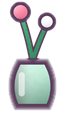
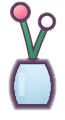
Keep floor pieces, the night window, bud-vase glass, and the back door visible
Floor items draw 12px above the stage border without changing saved positions.
The bedroom night plate is clipped to the arch. Bud-vase glass is tinted to the
same clear blue as the other glossy glass. The living-room door sits in the
item layer, above a sofa or rug, and still opens the yard.

Lifting the floor fully shows the nursery rattle and baby bottle, so only their
faintest antialiased edge pixels are cleared. That keeps the in-game art boxes
within the existing tolerance. A new guard checks the clamp and the door at all
seven review sizes.

Changed region(s): [[0.2154, 0.525, 0.8, 0.875]]

diff --git a/src/main.ts b/src/main.ts
@@ -58,6 +58,10 @@ let VIEW_W = 1000; // visible window; narrower in portrait so the room can fill 
 const maxCam = () => Math.max(0, W - VIEW_W);
 const WALL_BOTTOM = 375; // wall items (manifest `wall: true`) snap so they sit on the wall
 const snapY = (def: ItemDef, y: number) => def.wall ? Math.min(y, WALL_BOTTOM) : y;
+// The stage is a 600px border-box with a 6px border, so the bottom 12px of the world is clipped.
+// Floor pieces draw 12px higher. The stored y is left alone, so old saves stay valid.
+const FLOOR_DRAW = 12;
+const drawY = (def: ItemDef, y: number) => def.wall ? y : Math.min(y, H - FLOOR_DRAW);
 const CHAR_W = 120, CHAR_H = 192;
 const ROOMS: { id: RoomId; name: string; color: string }[] = [
   { id: 'living', name: 'Living Room', color: '#ff8fab' },
@@ -650,7 +654,10 @@ function renderRoomBg(s: GameState) {
 }
 function renderMinimap(s: GameState) {
   const room = s.rooms[s.currentRoom];
-  const dots = room.items.filter(i => ITEM_MAP[i.kind]).map(i => `<i style="left:${i.x / W * 100}%;top:${(i.y - hOf(ITEM_MAP[i.kind]) * i.scale / 2) / H * 100}%"></i>`).join('');
+  const dots = room.items.filter(i => ITEM_MAP[i.kind]).map(i => {
+    const def = ITEM_MAP[i.kind];
+    return `<i style="left:${i.x / W * 100}%;top:${(drawY(def, i.y) - hOf(def) * i.scale / 2) / H * 100}%"></i>`;
+  }).join('');
   const me = s.characters.filter(c => c.room === s.currentRoom).map(c => `<b style="left:${c.x / W * 100}%;top:${(c.y - 90) / H * 100}%;background:${c.shirt}"></b>`).join('');
   $('mmDots').innerHTML = dots + me;
 }
@@ -700,7 +707,7 @@ function renderItems(s: GameState) {
     el.dataset.kind = it.kind;
     el.classList.toggle('is-light', isLightKind(it.kind, !!def.light));
     const box = placedBox(def, it.scale);
-    placeEl(el, it.x, it.y, box.w, box.h);
+    placeEl(el, it.x, drawY(def, it.y), box.w, box.h);
     const iz = 1000 + it.z;
     el.style.zIndex = String(iz);
     el.style.setProperty('--iz', String(iz));
@@ -780,20 +787,33 @@ stage.addEventListener('pointerdown', e => {
   window.addEventListener('pointercancel', end, true);
 }, true);
 
-/** Indoor dressing, and the outdoor paint plus the back door when she is home. */
+/** Furniture can stack without limit. The door stays above every piece and under a kid, unless a piece was brought even further forward. */
+function liftDoorOverFurniture(door: HTMLElement) {
+  let maxZ = 0;
+  layer.querySelectorAll<HTMLElement>('.item').forEach(el => {
+    const z = parseInt(el.style.zIndex || '0', 10) || 0;
+    const light = el.classList.contains('is-light') ? 1 : 0;
+    if (z + light > maxZ) maxZ = z + light;
+  });
+  door.style.zIndex = String(Math.max(4900, maxZ + 2));
+}
+/** Indoor dressing, and the outdoor paint plus the back door when she is home.
+    The door lives in the item layer (scenery is a lower stacking context) so a sofa or rug cannot cover it. */
 function paintScenery(s: GameState) {
   const room = s.rooms[s.currentRoom];
   syncScenery($('scenery'), s.currentRoom, room.items);
-  const root = $('scenery');
+  $('scenery').querySelectorAll('.yardDoor').forEach(n => n.remove());
   const go = s.currentRoom === 'living' ? 'backyard' : s.currentRoom === 'backyard' ? 'living' : '';
-  const have = root.querySelector<HTMLElement>('.yardDoor');
-  if (!go) root.querySelectorAll('.yardDoor').forEach(n => n.remove());
+  const have = layer.querySelector<HTMLElement>('.yardDoor');
+  if (!go) layer.querySelectorAll('.yardDoor').forEach(n => n.remove());
   else if (!have || have.dataset.yardGo !== go) {
-    root.querySelectorAll('.yardDoor').forEach(n => n.remove());
-    root.insertAdjacentHTML('beforeend', yardDoorMarkup(go === 'backyard' ? 'living' : 'yard'));
-    const door = root.querySelector<HTMLElement>('.yardDoor');
+    layer.querySelectorAll('.yardDoor').forEach(n => n.remove());
+    layer.insertAdjacentHTML('beforeend', yardDoorMarkup(go === 'backyard' ? 'living' : 'yard'));
+    const door = layer.querySelector<HTMLElement>('.yardDoor');
     if (door) bindYardDoor(door);
   }
+  const door = layer.querySelector<HTMLElement>('.yardDoor');
+  if (door) liftDoorOverFurniture(door);
   stage.classList.toggle('room-yard', s.currentRoom === 'backyard');
   syncSwingPose();
   if (!doorPress) placeYardHints();

diff --git a/src/sky.css b/src/sky.css
@@ -261,7 +261,10 @@ html.sky-live .winGlass { transition: fill 1.4s linear; }
   height: 74%;
   z-index: 2;
   pointer-events: none;
-  border-radius: 6%;
+  /* The painting is an arch. A rectangle (even a slightly rounded one) leaves square
+     corners of night sky on the wood and the curtains. Percentages are of this plate. */
+  -webkit-clip-path: polygon(42.3% 10.3%, 31.8% 11.8%, 30.2% 16.2%, 28.2% 22.3%, 25.2% 28.2%, 22% 34.3%, 15.5% 43.2%, 10.7% 49.3%, 5% 55.3%, 0.7% 60.1%, 0.7% 85.8%, 98.9% 85.8%, 98.9% 60.1%, 95% 55.3%, 88.8% 49.3%, 84.1% 43.2%, 77.9% 34.3%, 74.5% 28.2%, 71.4% 22.3%, 69.1% 16.2%, 67.9% 11.8%, 58.2% 10.3%);
+  clip-path: polygon(42.3% 10.3%, 31.8% 11.8%, 30.2% 16.2%, 28.2% 22.3%, 25.2% 28.2%, 22% 34.3%, 15.5% 43.2%, 10.7% 49.3%, 5% 55.3%, 0.7% 60.1%, 0.7% 85.8%, 98.9% 85.8%, 98.9% 60.1%, 95% 55.3%, 88.8% 49.3%, 84.1% 43.2%, 77.9% 34.3%, 74.5% 28.2%, 71.4% 22.3%, 69.1% 16.2%, 67.9% 11.8%, 58.2% 10.3%);
   opacity: var(--sky-glass);
   background:
     linear-gradient(var(--ink), var(--ink)) 50% 50% / 5% 100% no-repeat,

diff --git a/tests/small_followups_test.py b/tests/small_followups_test.py
@@ -1,0 +1,286 @@
+# Bottom clamp and back-door layering at every review size, plus the bedroom
+# night-arch clip and the bud-vase glass tint.
+# A floor piece stored at y=600 must draw about 12px higher (the stage border
+# clips that strip) without the save changing. The living-room door stays above
+# a sofa and a rug that cover it, and a tap still opens the yard.
+import asyncio, io, os, sys
+from PIL import Image
+from playwright.async_api import async_playwright
+
+def opt(flag, env, default):
+    if flag in sys.argv:
+        i = sys.argv.index(flag)
+        if i + 1 < len(sys.argv): return sys.argv[i + 1]
+    return os.environ.get(env, default)
+
+WEB_PORT = opt('--web-port', 'WEB_PORT', opt('--port', 'PORT', '5173'))
+URL = f'http://127.0.0.1:{WEB_PORT}/kids-house-game/'
+SIZES = [(820, 1180), (1180, 820), (1024, 768), (390, 844), (375, 667), (430, 932), (844, 390)]
+ROOMS = [
+    ('living', 'plant'),
+    ('bedroom', 'plant'),
+    ('kitchen', 'plant'),
+    ('salon', 'plant'),
+    ('nursery', 'plant'),
+    ('backyard', 'pack:fire-pit'),
+]
+
+problems = []
+def fail(msg):
+    problems.append(msg)
+    print('FAIL', msg, flush=True)
+
+def pixel(png, x, y):
+    im = Image.open(io.BytesIO(png)).convert('RGB')
+    return im.getpixel((max(0, min(im.width - 1, int(x))), max(0, min(im.height - 1, int(y)))))
+
+def night_sky(rgb):
+    r, g, b = rgb
+    return r < 90 and b > r + 20 and b > g
+
+async def dismiss(pg):
+    await pg.wait_for_selector('#stage', timeout=20000)
+    await pg.wait_for_timeout(300)
+    await pg.evaluate("""() => {
+      const note = document.querySelector('#phoneOk');
+      if (note && note.offsetParent) note.click();
+      document.querySelector('#wnGo')?.click();
+      if (window.__sky) { __sky.freeze(null); __sky.setChoice('day'); }
+    }""")
+    await pg.wait_for_timeout(150)
+
+async def check_floor(pg, tag):
+    for room, kind in ROOMS:
+        data = await pg.evaluate("""([room, kind]) => {
+          const s = __store;
+          s.dispatch({type:'room/switch', room});
+          const id = 'qa-low-' + room;
+          if (!s.get().rooms[room].items.some(i => i.id === id))
+            s.dispatch({type:'item/add', room, item:{id, kind, x:1400, y:600, flip:false, z:1, scale:1}});
+          const mid = 'qa-mid-' + room;
+          if (!s.get().rooms[room].items.some(i => i.id === mid))
+            s.dispatch({type:'item/add', room, item:{id:mid, kind, x:1700, y:480, flip:false, z:1, scale:1}});
+          const viewW = parseFloat(document.querySelector('.stage').style.width) || 1000;
+          __cam.set(1400 - viewW / 2);
+          const kid = s.get().characters[0];
+          if (kid) s.dispatch({type:'char/move', id:kid.id, room, x:2000, y:520});
+          const measure = (el) => {
+            if (!el) return null;
+            const stage = document.querySelector('.stage');
+            const st = stage.getBoundingClientRect();
+            const view = parseFloat(stage.style.width) || 1;
+            const sc = st.width / view;
+            const border = 6 * sc;
+            const b = el.getBoundingClientRect();
+            const stored = __store.get().rooms[room].items.find(i => i.id === el.dataset.id);
+            return {
+              storedY: stored ? stored.y : null,
+              worldBottom: (b.bottom - (st.top + border)) / sc,
+              past: b.bottom - (st.bottom - border),
+              onScreen: b.width > 8 && b.bottom > 0 && b.top < innerHeight,
+            };
+          };
+          return { low: measure(document.querySelector('.item[data-id="' + id + '"]')), mid: measure(document.querySelector('.item[data-id="' + mid + '"]')) };
+        }""", [room, kind])
+        await pg.wait_for_timeout(80)
+        # Re-read after paint. The first read can land before the camera settles.
+        data = await pg.evaluate("""(room) => {
+          const measure = (id) => {
+            const el = document.querySelector('.item[data-id="' + id + '"]');
+            if (!el) return null;
+            const stage = document.querySelector('.stage');
+            const st = stage.getBoundingClientRect();
+            const view = parseFloat(stage.style.width) || 1;
+            const sc = st.width / view;
+            const border = 6 * sc;
+            const b = el.getBoundingClientRect();
+            const stored = __store.get().rooms[room].items.find(i => i.id === id);
+            return {
+              storedY: stored ? stored.y : null,
+              worldBottom: (b.bottom - (st.top + border)) / sc,
+              past: b.bottom - (st.bottom - border),
+            };
+          };
+          return { low: measure('qa-low-' + room), mid: measure('qa-mid-' + room) };
+        }""", room)
+        low, mid = data['low'], data['mid']
+        if not low:
+            fail(f'{tag} {room} low piece missing')
+            continue
+        if low['storedY'] != 600:
+            fail(f"{tag} {room} stored y {low['storedY']} (save must stay 600)")
+        if abs(low['worldBottom'] - 588) > 2.5:
+            fail(f"{tag} {room} drawn bottom {low['worldBottom']:.1f} want 588")
+        if low['past'] > 1.25:
+            fail(f"{tag} {room} still clipped by {low['past']:.1f}px")
+        if not mid or abs(mid['worldBottom'] - 480) > 2.5:
+            fail(f"{tag} {room} mid piece moved {None if not mid else round(mid['worldBottom'],1)}")
+
+async def check_window(pg, tag):
+    await pg.evaluate("""() => {
+      __store.dispatch({type:'room/switch', room:'bedroom'});
+      const win = __store.get().rooms.bedroom.items.find(i => i.kind === 'window');
+      const viewW = parseFloat(document.querySelector('.stage').style.width) || 1000;
+      __cam.set(win.x - viewW / 2);
+      __sky.freeze(null);
+      __sky.setChoice('day');
+    }""")
+    await pg.wait_for_timeout(200)
+    spot = await pg.evaluate("""() => {
+      const item = document.querySelector('#layer .item[data-kind="window"]');
+      const plate = item && item.querySelector('.artnight');
+      if (!item || !plate) return null;
+      const r = item.getBoundingClientRect();
+      const cp = getComputedStyle(plate).clipPath || '';
+      return {
+        shoulderX: r.left + r.width * 0.30, shoulderY: r.top + r.height * 0.10,
+        glassX: r.left + r.width * 0.40, glassY: r.top + r.height * 0.55,
+        clip: cp.slice(0, 12),
+        vw: innerWidth, vh: innerHeight,
+      };
+    }""")
+    if not spot or not (8 < spot['glassX'] < spot['vw'] - 8):
+        fail(f'{tag} window off screen')
+        return
+    if 'polygon' not in (spot['clip'] or ''):
+        fail(f"{tag} night plate clip {spot['clip']}")
+    day_s = pixel(await pg.screenshot(), spot['shoulderX'], spot['shoulderY'])
+    day_g = pixel(await pg.screenshot(), spot['glassX'], spot['glassY'])
+    await pg.evaluate("() => __sky.setChoice('night')")
+    await pg.wait_for_function("""() => {
+      const plate = document.querySelector('#layer .item[data-kind="window"] .artnight');
+      return plate && parseFloat(getComputedStyle(plate).opacity) > 0.95;
+    }""", timeout=3000)
+    night_s = pixel(await pg.screenshot(), spot['shoulderX'], spot['shoulderY'])
+    night_g = pixel(await pg.screenshot(), spot['glassX'], spot['glassY'])
+    if night_sky(night_s):
+        fail(f'{tag} night square corner still sky {night_s}')
+    if max(abs(day_s[i] - night_s[i]) for i in range(3)) > 18:
+        fail(f'{tag} arch shoulder changed at night {day_s} -> {night_s}')
+    if not night_sky(night_g) or sum(day_g) < sum(night_g) + 40:
+        fail(f'{tag} arch glass did not go night {day_g} -> {night_g}')
+    await pg.evaluate("() => __sky.setChoice('day')")
+
+async def check_vase(pg, tag):
+    await pg.evaluate("""() => {
+      __store.dispatch({type:'room/switch', room:'salon'});
+      if (!__store.get().rooms.salon.items.some(i => i.id === 'qa-vase'))
+        __store.dispatch({type:'item/add', room:'salon', item:{id:'qa-vase', kind:'pack:bud-vase', x:1200, y:480, flip:false, z:1, scale:3}});
+      const viewW = parseFloat(document.querySelector('.stage').style.width) || 1000;
+      __cam.set(1200 - viewW / 2);
+      __sky.setChoice('day');
+    }""")
+    await pg.wait_for_function("""() => {
+      const img = document.querySelector('.item[data-id="qa-vase"] img');
+      return img && img.complete && img.naturalWidth > 0;
+    }""", timeout=5000)
+    spot = await pg.evaluate("""() => {
+      const r = document.querySelector('.item[data-id="qa-vase"]').getBoundingClientRect();
+      return {
+        lipX: r.left + r.width * 0.50, lipY: r.top + r.height * 0.55,
+        bodyX: r.left + r.width * 0.50, bodyY: r.top + r.height * 0.72,
+        bloomX: r.left + r.width * 0.38, bloomY: r.top + r.height * 0.14,
+        vw: innerWidth, vh: innerHeight,
+      };
+    }""")
+    if not (8 < spot['bodyX'] < spot['vw'] - 8):
+        fail(f'{tag} bud vase off screen')
+        return
+    png = await pg.screenshot()
+    lip, body, bloom = pixel(png, spot['lipX'], spot['lipY']), pixel(png, spot['bodyX'], spot['bodyY']), pixel(png, spot['bloomX'], spot['bloomY'])
+    def blue_glass(rgb):
+        r, g, b = rgb
+        return b > r + 18 and b + 6 >= g and g > r
+    if not blue_glass(body):
+        fail(f'{tag} bud vase body not clear blue {body}')
+    if not blue_glass(lip):
+        fail(f'{tag} bud vase lip still grey {lip}')
+    if not (bloom[0] > bloom[1] + 15 and bloom[0] > bloom[2]):
+        fail(f'{tag} bud vase bloom changed {bloom}')
+
+async def check_door(pg, tag):
+    await pg.evaluate("""() => {
+      const s = __store;
+      s.dispatch({type:'room/switch', room:'living'});
+      __sky.setChoice('day');
+      const viewW = parseFloat(document.querySelector('.stage').style.width) || 1000;
+      __cam.set(824 - viewW / 2);
+      const sofa = s.get().rooms.living.items.find(i => i.kind === 'sofa');
+      const rug = s.get().rooms.living.items.find(i => i.kind === 'rug');
+      const kid = s.get().characters[0];
+      s.dispatch({type:'char/move', id:kid.id, room:'living', x:1100, y:540});
+      // Moves repaint the door after the camera is in place, so a hint slide from the old view does not stick.
+      s.dispatch({type:'item/move', room:'living', id:sofa.id, x:824, y:470});
+      s.dispatch({type:'item/move', room:'living', id:rug.id, x:824, y:530});
+      s.dispatch({type:'item/front', room:'living', id:rug.id});
+      s.dispatch({type:'item/front', room:'living', id:sofa.id});
+    }""")
+    await pg.wait_for_timeout(250)
+    hit = await pg.evaluate("""() => {
+      const door = document.querySelector('.yardDoor');
+      const art = door && door.querySelector('.doorArt');
+      const sofa = document.querySelector('#layer .item[data-kind="sofa"]');
+      const rug = document.querySelector('#layer .item[data-kind="rug"]');
+      if (!door || !art || !sofa || !rug) return null;
+      const overlap = (a, b) => a.left < b.right - 1 && a.right > b.left + 1 && a.top < b.bottom - 1 && a.bottom > b.top + 1;
+      const ar = art.getBoundingClientRect();
+      const cx = (ar.left + ar.right) / 2, cy = (ar.top + ar.bottom) / 2;
+      const top = document.elementFromPoint(cx, cy);
+      const z = (el) => parseInt(getComputedStyle(el).zIndex, 10) || 0;
+      return {
+        parent: door.parentElement && door.parentElement.id,
+        inScenery: !!document.querySelector('#scenery .yardDoor'),
+        sofaOn: overlap(sofa.getBoundingClientRect(), ar),
+        rugOn: overlap(rug.getBoundingClientRect(), ar),
+        doorZ: z(door), sofaZ: z(sofa), rugZ: z(rug),
+        onDoor: !!(top && top.closest && top.closest('.yardDoor')),
+        top: top ? (top.className && top.className.baseVal !== undefined ? 'svg' : String(top.className).slice(0, 40)) : '',
+        cx, cy, vw: innerWidth, vh: innerHeight,
+      };
+    }""")
+    if not hit:
+        fail(f'{tag} door markup missing')
+        return
+    if hit['parent'] != 'layer' or hit['inScenery']:
+        fail(f"{tag} door parent {hit['parent']} scenery {hit['inScenery']}")
+    if not hit['sofaOn'] or not hit['rugOn']:
+        fail(f"{tag} furniture does not cover the door sofa {hit['sofaOn']} rug {hit['rugOn']}")
+    if not (hit['doorZ'] > hit['sofaZ'] and hit['doorZ'] > hit['rugZ']):
+        fail(f"{tag} door z {hit['doorZ']} sofa {hit['sofaZ']} rug {hit['rugZ']}")
+    if not hit['onDoor']:
+        fail(f"{tag} door not the top tap {hit['top']}")
+    if not (8 < hit['cx'] < hit['vw'] - 8 and 8 < hit['cy'] < hit['vh'] - 8):
+        fail(f'{tag} door center off screen')
+        return
+    await pg.mouse.click(hit['cx'], hit['cy'])
+    await pg.wait_for_timeout(400)
+    room = await pg.evaluate("() => __store.get().currentRoom")
+    if room != 'backyard':
+        fail(f'{tag} tap on the covered door stayed in {room}')
+
+async def main():
+    async with async_playwright() as p:
+        browser = await p.chromium.launch()
+        for w, h in SIZES:
+            tag = f'{w}x{h}'
+            phone = min(w, h) < 500 or (w > h and h <= 500)
+            ctx = await browser.new_context(viewport={'width': w, 'height': h}, has_touch=phone, is_mobile=min(w, h) < 500, device_scale_factor=1)
+            await ctx.add_init_script("localStorage.setItem('cozy-whatsnew','999'); localStorage.setItem('avatar-intro','1');")
+            pg = await ctx.new_page()
+            pg.on('pageerror', lambda e: fail(f'{tag} pageerror {e}'))
+            await pg.goto(URL, wait_until='networkidle')
+            await dismiss(pg)
+            await check_floor(pg, tag)
+            await check_window(pg, tag)
+            await check_vase(pg, tag)
+            await check_door(pg, tag)
+            await ctx.close()
+            print(f'{tag} checked', flush=True)
+        await browser.close()
+    if problems:
+        print(f'FAIL {len(problems)}')
+        sys.exit(1)
+    print(f'PASS small followups {len(SIZES)} sizes')
+
+if __name__ == '__main__':
+    asyncio.run(main())
